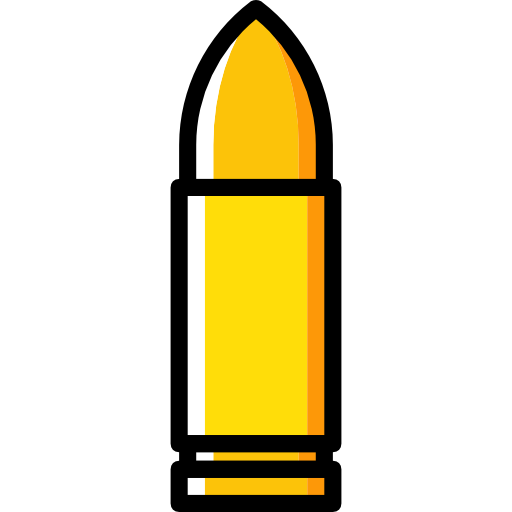
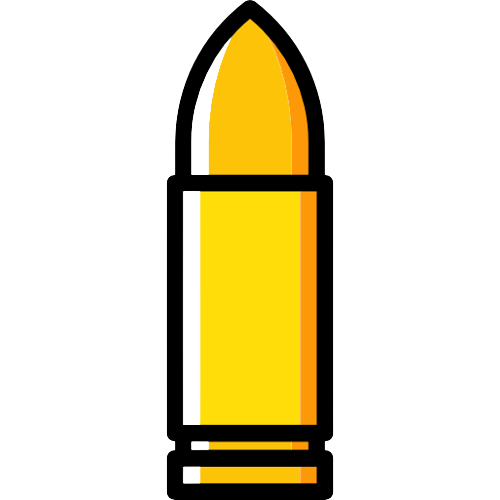
updates: imgs, shot and gun rotation

diff --git a/script.js b/script.js
@@ -33,20 +33,38 @@ function setCSSVariable(variable, value) {
     c(':root').style.setProperty(variable, value);
 }
 
+// get shot direction
+function getShotDirection(x, y){
+    var d = Math.atan2(x, y) * (180 / Math.PI);
+    if(d < 0) d = 180 - d;
+    return d;
+}
+
 // score
 let score = 0;
 
 // shoot the duck
 let initialShotLeft = parseInt((gameWidth/2) - 7);
 let initialShotTop = parseInt(gameHeight * 0.8);
-let finalShotLeft, finalShotTop, distance, animationTime, shotAnimInterval, shotAnimClearInterval;
+let finalShotLeft, finalShotTop, leftDistance, topDistance, distance, animationTime, rotation, shotAnimInterval, shotAnimClearInterval;
 c('.shot').style.left = initialShotLeft + "px";
 c('.shot').style.top = initialShotTop + "px";
 function shoot() {
+    c('.shot').style.display = 'flex';
+
     finalShotLeft = event.clientX-26;
     finalShotTop = event.clientY-26;
+
+    leftDistance = initialShotLeft-finalShotLeft;
+    topDistance = initialShotTop-finalShotTop
     distance = Math.sqrt((initialShotLeft-finalShotLeft)**2 + (initialShotTop-finalShotTop)**2);
     animationTime = distance / 800;
+
+    rotation = getShotDirection(leftDistance, topDistance);
+    rotation = (rotation > 180) ? rotation -= 180 : rotation *= -1;
+    c('.gun').style.transform = `rotate(${rotation}deg)`;
+    setTimeout(()=>{c('.gun').style.transform = `rotate(0deg)`;}, 300);
+    c('.shot').style.transform = `rotate(${rotation}deg)`;
 
     setCSSVariable('--initialLeft', (initialShotLeft)+'px');
     setCSSVariable('--initialTop', (initialShotTop)+'px');
@@ -61,7 +79,7 @@ function shoot() {
         c('.shot').style.left = initialShotLeft + "px";
         c('.shot').style.top = initialShotTop + "px";
         c('.shot').classList.remove('shotAnimation');
-        c('.shot').style.display = 'block';
+        c('.shot').style.display = 'none';
         clearInterval(shotAnimInterval);
     }
 
@@ -85,11 +103,7 @@ function verifyWin() {
             speed = 0;
         }
         duckMove(speed);
-
-        c('.shot').style.display = 'none';
-        setTimeout(() => {
-            shotAnimClearInterval();
-        }, 100);
+        shotAnimClearInterval();
     }
 }
 

diff --git a/style.css b/style.css
@@ -30,26 +30,44 @@
 
 .duck {
     position: relative;
+    display: flex;
+    align-items: center;
+    justify-content: center;
     width: 70px;
     height: 70px;
-    background-color: yellow;
+}
+
+.duck img {
+    height: inherit;
 }
 
 .gun {
     position: absolute;
     bottom: 10%;
     left: calc(50% - 50px);
+    display: flex;
+    align-items: center;
+    justify-content: center;
     width: 100px;
     height: 100px;
-    background-color: #000;
+}
+
+.gun img {
+    height: 130px;
 }
 
 .shot {
     position: absolute;
+    display: none;
+    align-items: center;
+    justify-content: center;
     width: 14px;
     height: 14px;
     border-radius: 50%;
-    background-color: #000;
+}
+
+.shot img {
+    height: 20px;
 }
 
 .shotAnimation {

diff --git a/index.html b/index.html
@@ -14,9 +14,9 @@
     <div class="container">
         <div class="game">
             <div class="score">Score: <span>0</span></div>
-            <div class="duck"></div>
-            <div class="gun"></div>
-            <div class="shot"></div>
+            <div class="duck"><img src="img/pato.png" alt="Imagem de um pato"></div>
+            <div class="gun"><img src="img/arma.png" alt="Imagem de uma arma"></div>
+            <div class="shot"><img src="img/bala.png" alt="Imagem de uma bala"></div>
         </div>
     </div>
 </body>
